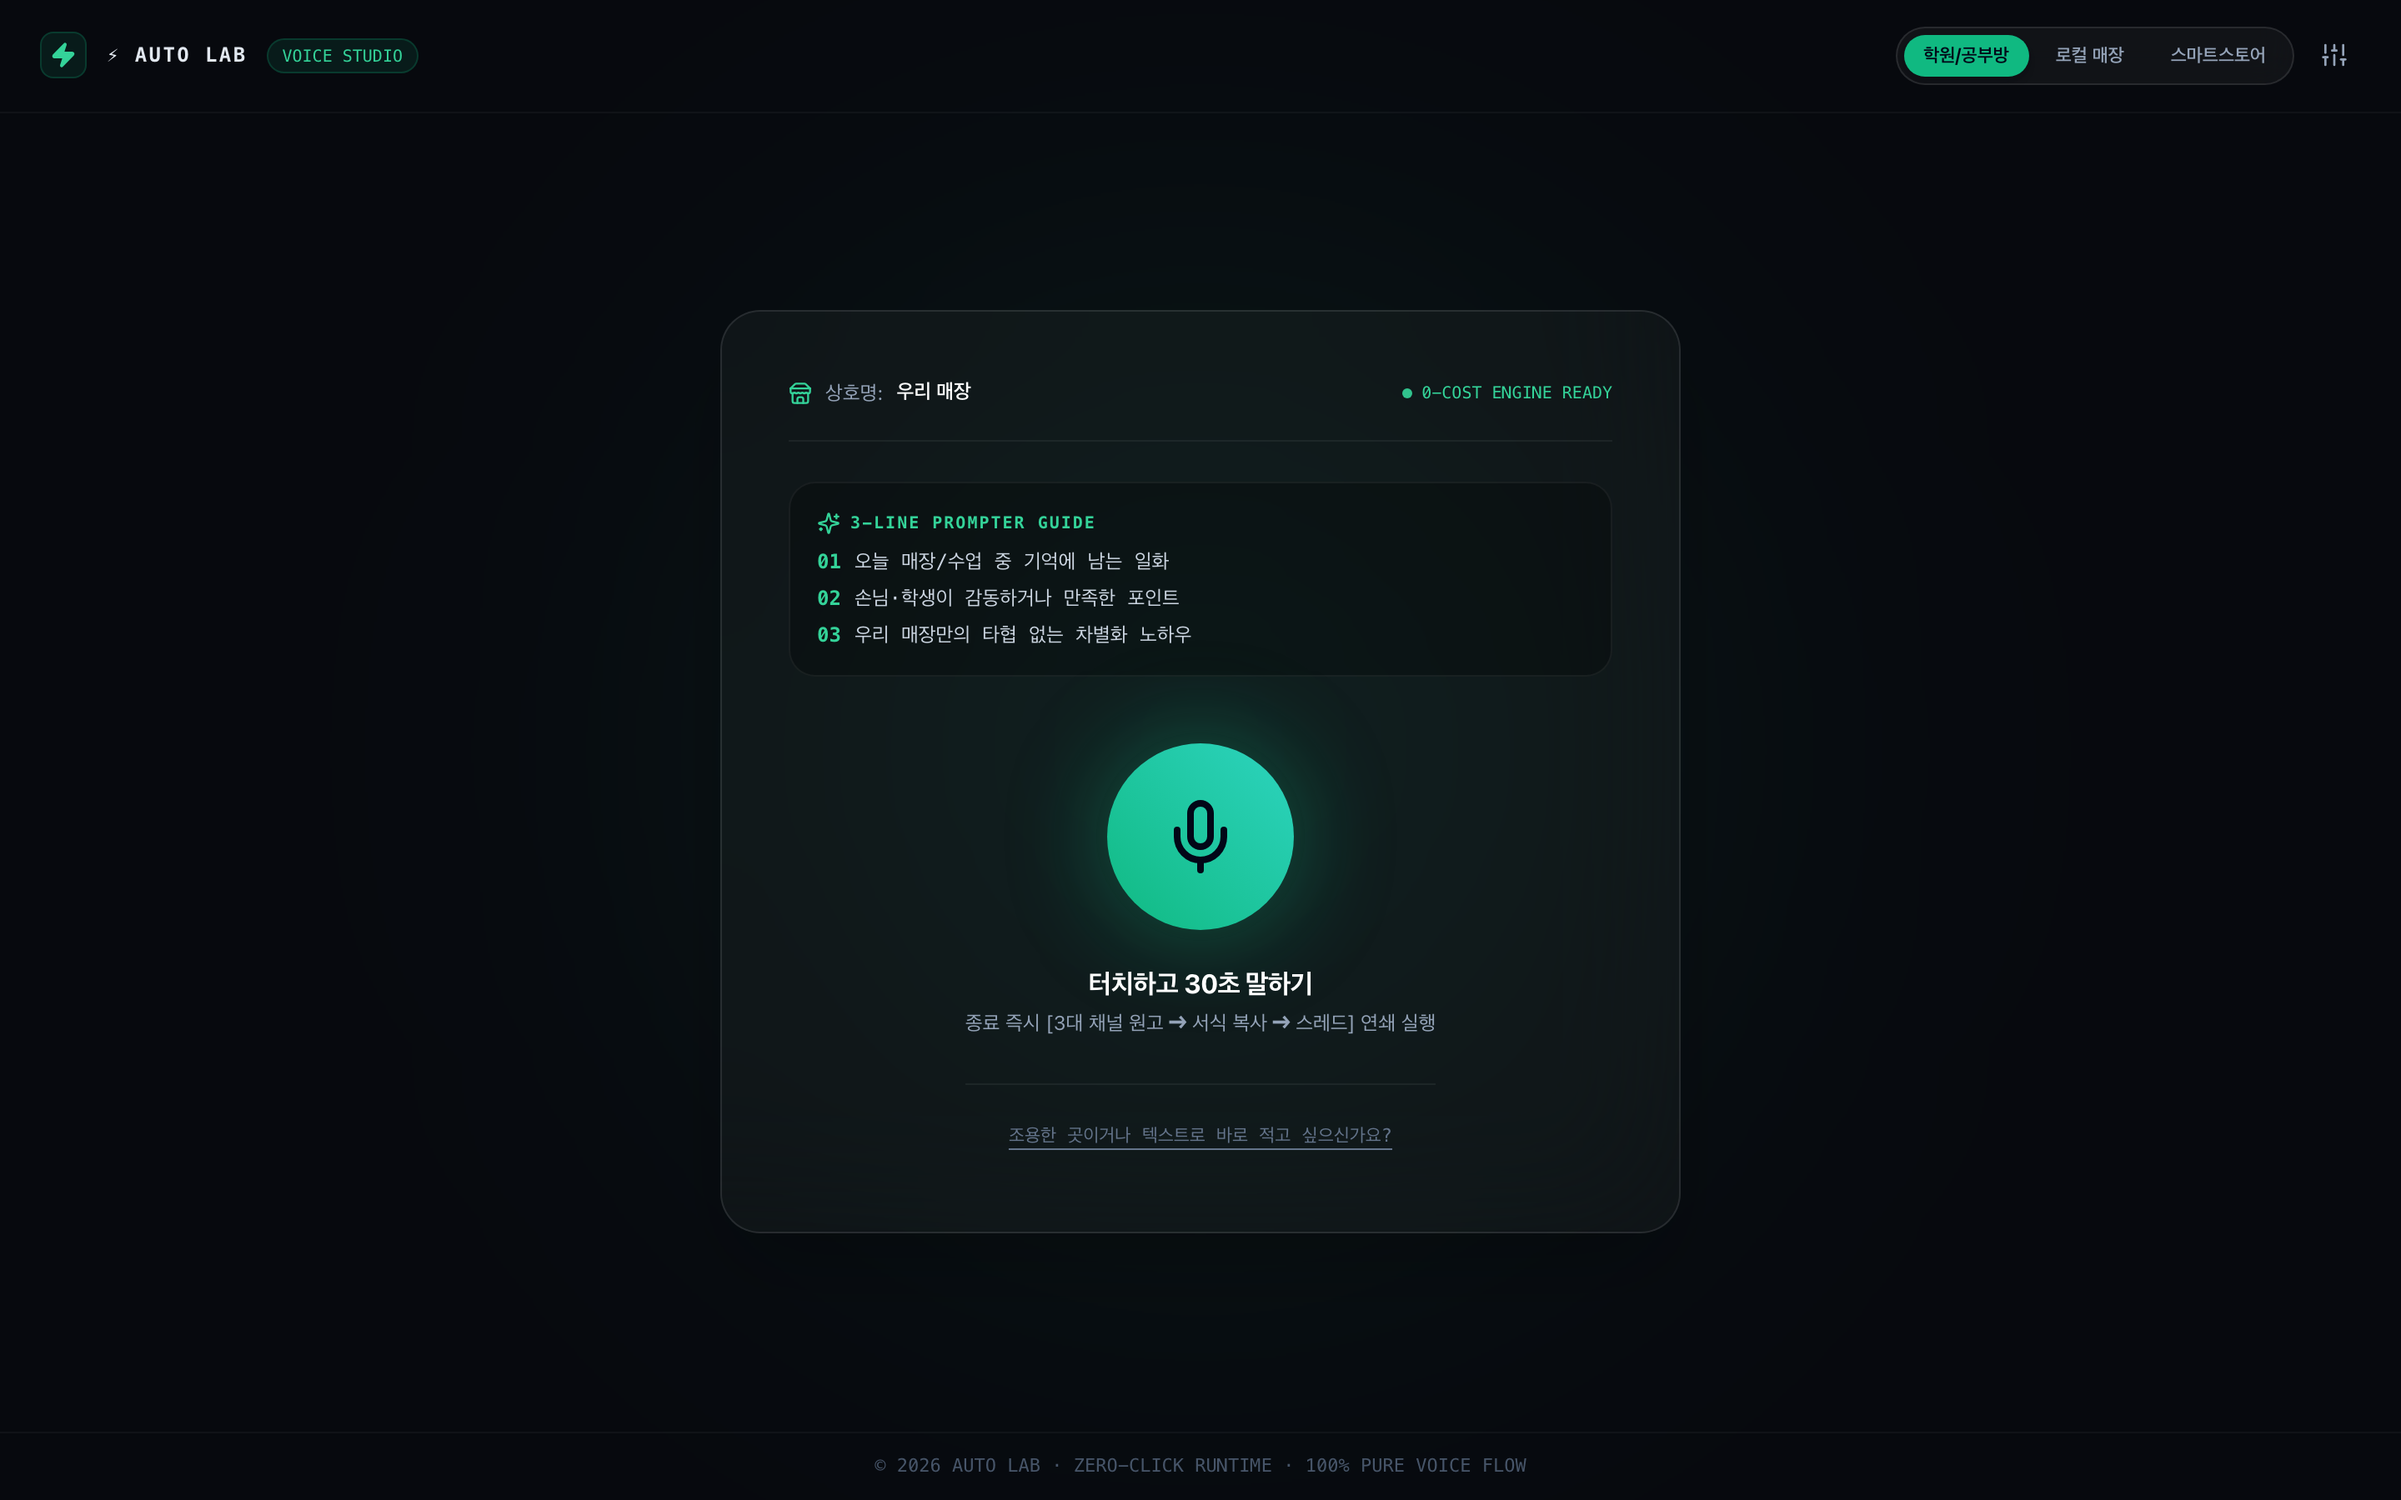
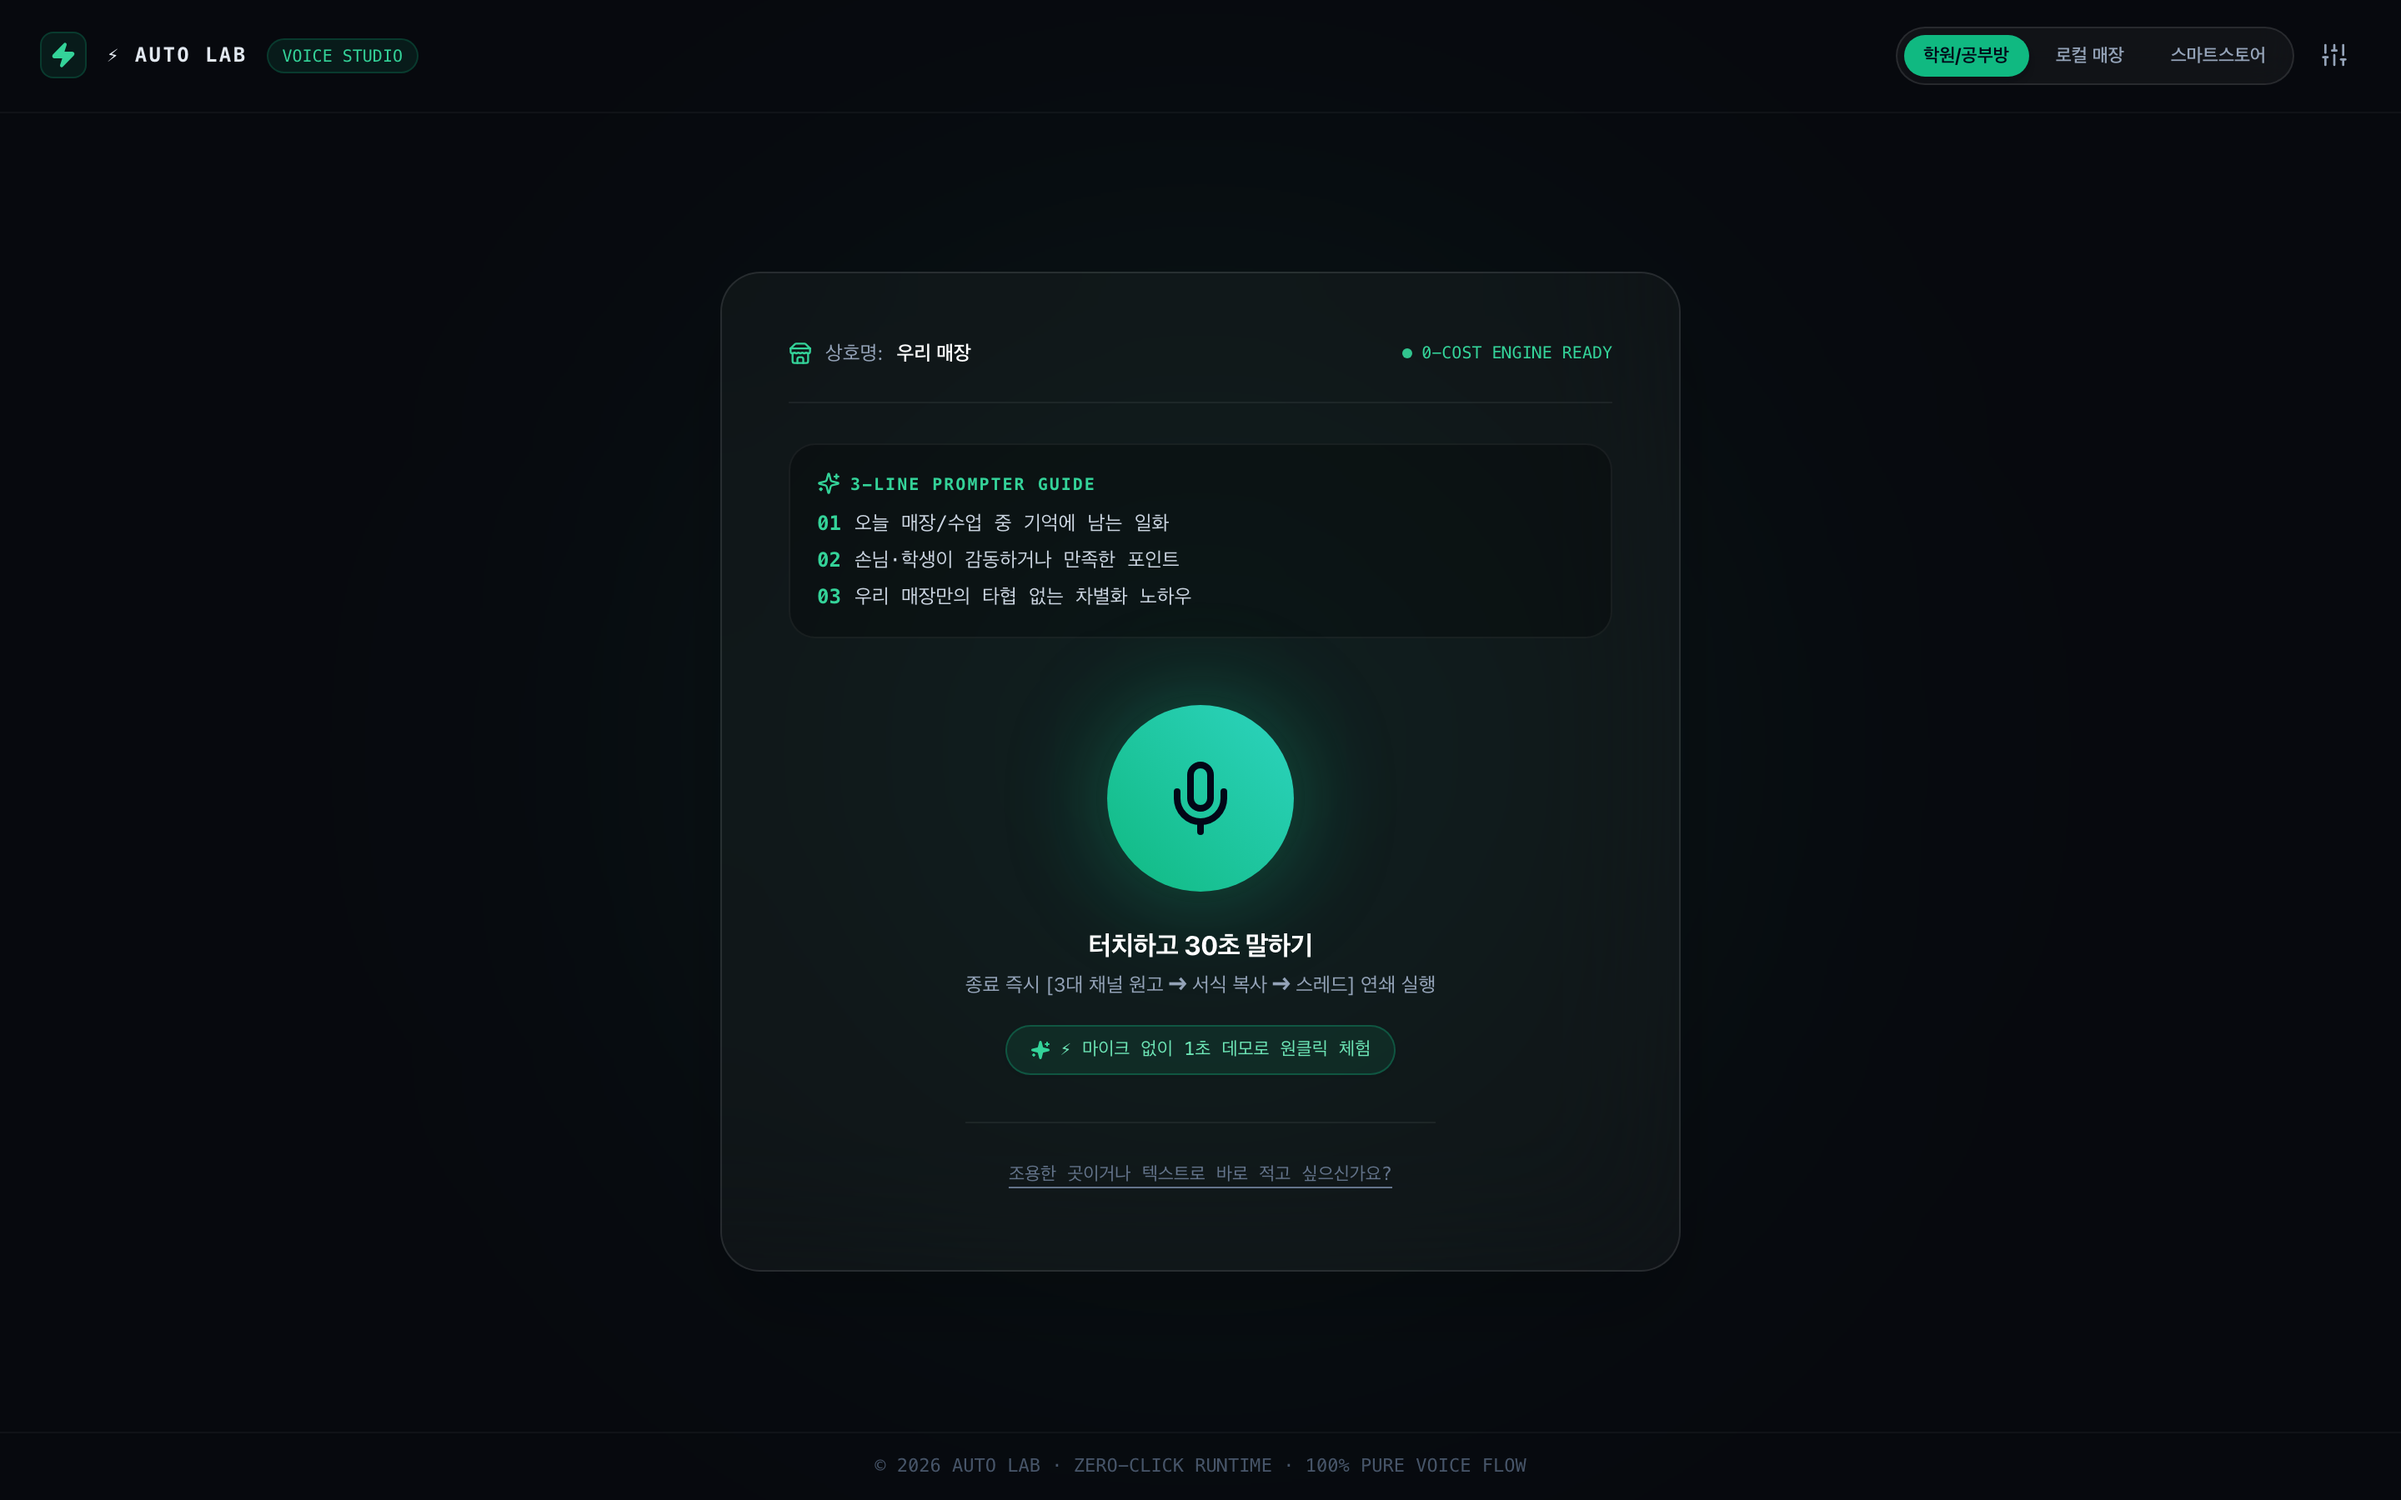
fix(audio): handle Mac mini missing mic, add fallback constraints and 1-click instant demo execution

diff --git a/src/app/page.tsx b/src/app/page.tsx
@@ -19,6 +19,8 @@ import {
   AlertTriangle,
   ArrowRight,
   Check,
+  X,
+  Play,
 } from "lucide-react";
 import StyleCloningModal from "@/components/StyleCloningModal";
 import { copyHtmlToClipboard, copyPlainText } from "@/utils/copyRichText";
@@ -31,6 +33,21 @@ interface GeneratedData {
 }
 
 type StudioState = "idle" | "recording" | "chaining" | "done";
+
+const DEMO_SAMPLES: Record<string, { label: string; text: string }> = {
+  academy: {
+    label: "🎯 학원 샘플",
+    text: "오늘 중2 서연이가 지난 시험 30점에서 이번 기말고사 92점 맞았다고 울면서 뛰어왔습니다. 포기하지 않고 1:1 역질문 오답노트로 끝까지 함께한 보람을 느꼈습니다.",
+  },
+  local_store: {
+    label: "🥩 매장 샘플",
+    text: "오늘 점심에 단체 손님께서 '여기 고기는 잡내가 하나도 없고 밑반찬까지 정갈하다'며 온 가족 모임 20인분을 즉석에서 예약하고 가셨습니다. 매일 아침 새벽시장에서 들여오는 신선육과 3일 저온 숙성의 차이를 알아주셔서 보람찼습니다.",
+  },
+  ecommerce: {
+    label: "📦 스토어 샘플",
+    text: "어제 런칭한 수제 천연가죽 지갑이 출시 하루 만에 1차 준비 수량 300개가 전량 품절되었습니다. 박음질 하나하나 꼼꼼히 검수한 진심을 알아봐 주셔서 진심으로 감사드립니다.",
+  },
+};
 
 export default function DarkStudioPage() {
   // Persistence & Settings
@@ -143,18 +160,45 @@ export default function DarkStudioPage() {
     setRecordSeconds(0);
 
     try {
-      // First line directly calls getUserMedia for instant browser permission popup
       if (!navigator.mediaDevices || !navigator.mediaDevices.getUserMedia) {
         throw new Error("UNSUPPORTED_MEDIA");
       }
 
-      const stream = await navigator.mediaDevices.getUserMedia({
-        audio: {
-          echoCancellation: true,
-          noiseSuppression: true,
-          autoGainControl: true,
-        },
-      });
+      // Check whether an audioinput device exists on this machine
+      if (navigator.mediaDevices.enumerateDevices) {
+        try {
+          const devices = await navigator.mediaDevices.enumerateDevices();
+          const hasAudioInput = devices.some((d) => d.kind === "audioinput");
+          if (!hasAudioInput && devices.length > 0) {
+            const noMicErr = new Error("Requested device not found");
+            noMicErr.name = "NotFoundError";
+            throw noMicErr;
+          }
+        } catch (checkErr: any) {
+          if (checkErr.name === "NotFoundError") throw checkErr;
+        }
+      }
+
+      // First try noise-canceling constraints, fallback to { audio: true } if overconstrained
+      let stream: MediaStream;
+      try {
+        stream = await navigator.mediaDevices.getUserMedia({
+          audio: {
+            echoCancellation: true,
+            noiseSuppression: true,
+            autoGainControl: true,
+          },
+        });
+      } catch (advancedErr: any) {
+        if (
+          advancedErr.name === "OverconstrainedError" ||
+          advancedErr.name === "ConstraintNotSatisfiedError"
+        ) {
+          stream = await navigator.mediaDevices.getUserMedia({ audio: true });
+        } else {
+          throw advancedErr;
+        }
+      }
 
       mediaStreamRef.current = stream;
 
@@ -238,25 +282,38 @@ export default function DarkStudioPage() {
         });
       }, 1000);
     } catch (err: any) {
-      console.error("Mic Permission / Audio Error:", err);
+      console.warn("Mic Permission / Audio Error:", err);
       stopAudioStreams();
 
-      if (err.name === "NotAllowedError" || err.name === "PermissionDeniedError") {
+      if (err.name === "NotFoundError" || err.name === "DevicesNotFoundError") {
+        setPermissionError(
+          "🎙 마이크 장치를 찾을 수 없습니다. (Mac mini는 내장 마이크가 없어 에어팟/블루투스/USB 마이크 연결이 필요합니다. 아래 '1초 데모' 버튼으로 바로 체험해 보세요!)"
+        );
+      } else if (err.name === "NotAllowedError" || err.name === "PermissionDeniedError") {
         setPermissionError(
           "⚠ 브라우저 주소창 왼쪽 [사이트 설정 / 자물쇠 아이콘]에서 마이크 권한을 '허용'으로 변경해주세요."
         );
       } else if (err.message === "UNSUPPORTED_MEDIA") {
         setPermissionError(
-          "⚠ 마이크 장치를 찾을 수 없거나 현재 환경(HTTPS / localhost)에서만 지원됩니다."
+          "⚠ 마이크 장치를 지원하지 않거나 HTTPS / localhost 환경이 아닙니다."
         );
       } else {
         setPermissionError(
-          "⚠ 마이크 연결에 실패했습니다. 아래 텍스트 직접 입력 모드를 사용해 보세요."
+          `⚠ 마이크 연결 실패 (${err.name || "오류"}): 아래 1초 데모 버튼 또는 직접 입력으로 바로 생성 가능합니다.`
         );
       }
       setManualMode(true);
       setStudioState("idle");
     }
+  };
+
+  const handleDemoExecution = (customText?: string) => {
+    const text =
+      customText ||
+      DEMO_SAMPLES[category]?.text ||
+      DEMO_SAMPLES.academy.text;
+    setPermissionError(null);
+    executeOneClickChain(undefined, text);
   };
 
   const stopStudioRecording = () => {
@@ -362,9 +419,27 @@ export default function DarkStudioPage() {
 
       {/* Permission Warning Banner (Glassmorphism Alert) */}
       {permissionError && (
-        <div className="absolute top-4 left-1/2 -translate-x-1/2 z-50 w-11/12 max-w-lg rounded-2xl border border-amber-500/30 bg-amber-500/10 p-3.5 backdrop-blur-xl text-amber-300 text-xs flex items-center gap-2.5 shadow-2xl animate-fade-in">
-          <AlertTriangle className="h-4 w-4 shrink-0 text-amber-400" />
-          <span className="leading-relaxed">{permissionError}</span>
+        <div className="absolute top-4 left-1/2 -translate-x-1/2 z-50 w-11/12 max-w-2xl rounded-2xl border border-amber-500/30 bg-black/85 p-3.5 sm:p-4 backdrop-blur-2xl text-amber-300 text-xs flex flex-col sm:flex-row sm:items-center justify-between gap-3 shadow-2xl animate-fade-in">
+          <div className="flex items-start sm:items-center gap-2.5">
+            <AlertTriangle className="h-4 w-4 shrink-0 text-amber-400 mt-0.5 sm:mt-0" />
+            <span className="leading-relaxed font-sans">{permissionError}</span>
+          </div>
+          <div className="flex items-center gap-2 shrink-0 self-end sm:self-center">
+            <button
+              onClick={() => handleDemoExecution()}
+              className="px-3 py-1.5 rounded-xl bg-gradient-to-r from-emerald-500 to-teal-400 text-slate-950 font-black text-[11px] shadow-lg shadow-emerald-500/20 hover:brightness-110 active:scale-95 transition flex items-center gap-1.5 cursor-pointer whitespace-nowrap"
+            >
+              <Sparkles className="h-3.5 w-3.5 fill-current" />
+              <span>1초 데모 즉시 실행</span>
+            </button>
+            <button
+              onClick={() => setPermissionError(null)}
+              className="p-1 rounded-lg hover:bg-white/10 text-amber-300/70 hover:text-amber-300 transition"
+              title="닫기"
+            >
+              <X className="h-4 w-4" />
+            </button>
+          </div>
         </div>
       )}
 
@@ -523,6 +598,16 @@ export default function DarkStudioPage() {
                       <p className="mt-1 text-xs text-slate-400">
                         종료 즉시 [3대 채널 원고 ➔ 서식 복사 ➔ 스레드] 연쇄 실행
                       </p>
+
+                      {/* 1초 데모 즉시 체험 버튼 */}
+                      <button
+                        type="button"
+                        onClick={() => handleDemoExecution()}
+                        className="mt-4 flex items-center gap-1.5 px-3.5 py-1.5 rounded-full bg-emerald-500/10 border border-emerald-500/30 text-emerald-300 text-[11px] font-mono hover:bg-emerald-500/20 active:scale-95 transition shadow-sm"
+                      >
+                        <Sparkles className="h-3 w-3 fill-current text-emerald-400" />
+                        <span>⚡ 마이크 없이 1초 데모로 원클릭 체험</span>
+                      </button>
                     </div>
                   )}
 
@@ -538,29 +623,59 @@ export default function DarkStudioPage() {
                 </div>
               ) : (
                 /* Manual Text Fallback Mode */
-                <div className="w-full space-y-4 text-left">
+                <div className="w-full space-y-3.5 text-left">
                   <div className="flex items-center justify-between text-xs">
-                    <span className="font-bold text-slate-300">오늘 있었던 일 직접 입력:</span>
+                    <span className="font-bold text-slate-300">오늘 있었던 일 입력:</span>
                     <button
                       onClick={() => setManualMode(false)}
-                      className="text-emerald-400 hover:underline font-mono"
+                      className="text-emerald-400 hover:underline font-mono text-[11px]"
                     >
                       🎙 음성 모드로 복귀
                     </button>
                   </div>
+
+                  {/* Quick Preset Samples */}
+                  <div className="flex flex-wrap items-center gap-1.5">
+                    <span className="text-[10px] text-slate-500 font-mono">빠른 예시:</span>
+                    {Object.entries(DEMO_SAMPLES).map(([key, item]) => (
+                      <button
+                        key={key}
+                        type="button"
+                        onClick={() => setManualText(item.text)}
+                        className={`text-[10px] px-2.5 py-1 rounded-lg border font-mono transition ${
+                          category === key
+                            ? "bg-emerald-500/20 border-emerald-500/40 text-emerald-300"
+                            : "bg-white/5 border-white/10 text-slate-300 hover:bg-white/10"
+                        }`}
+                      >
+                        {item.label}
+                      </button>
+                    ))}
+                    <button
+                      type="button"
+                      onClick={() => handleDemoExecution()}
+                      className="text-[10px] px-2.5 py-1 rounded-lg bg-emerald-500/20 text-emerald-300 border border-emerald-500/40 font-bold font-mono transition hover:bg-emerald-500/30 ml-auto flex items-center gap-1"
+                    >
+                      <Sparkles className="h-3 w-3 fill-current" />
+                      <span>1초 데모 즉시 실행</span>
+                    </button>
+                  </div>
+
                   <textarea
                     value={manualText}
                     onChange={(e) => setManualText(e.target.value)}
                     placeholder="예: 오늘 중2 서연이가 수학 30점에서 이번 시험 92점 맞았다고 울면서 뛰어왔습니다. 1:1 역질문 오답노트 지도가 통했습니다."
                     rows={4}
-                    className="w-full rounded-2xl border border-white/10 bg-black/40 p-4 text-xs text-white placeholder-slate-500 focus:border-emerald-400 focus:outline-none"
+                    className="w-full rounded-2xl border border-white/10 bg-black/40 p-4 text-xs text-white placeholder-slate-500 focus:border-emerald-400 focus:outline-none transition leading-relaxed"
                   />
+
                   <button
                     onClick={handleManualSubmit}
-                    className="w-full py-3.5 rounded-xl bg-emerald-500 text-slate-950 font-bold text-xs shadow-lg shadow-emerald-500/20 hover:bg-emerald-400 transition flex items-center justify-center gap-2"
+                    disabled={!manualText.trim()}
+                    className="w-full py-3.5 rounded-xl bg-gradient-to-r from-emerald-500 to-teal-400 text-slate-950 font-bold text-xs shadow-lg shadow-emerald-500/20 hover:opacity-95 disabled:opacity-40 disabled:cursor-not-allowed transition flex items-center justify-center gap-2 cursor-pointer"
                   >
-                    <Sparkles className="h-4 w-4" />
-                    <span>원클릭 3대 채널 원고 자동 생성</span>
+                    <Sparkles className="h-4 w-4 fill-current" />
+                    <span>원클릭 3대 채널 원고 자동 생성 (클립보드 복사 & 스레드)</span>
                   </button>
                 </div>
               )}
